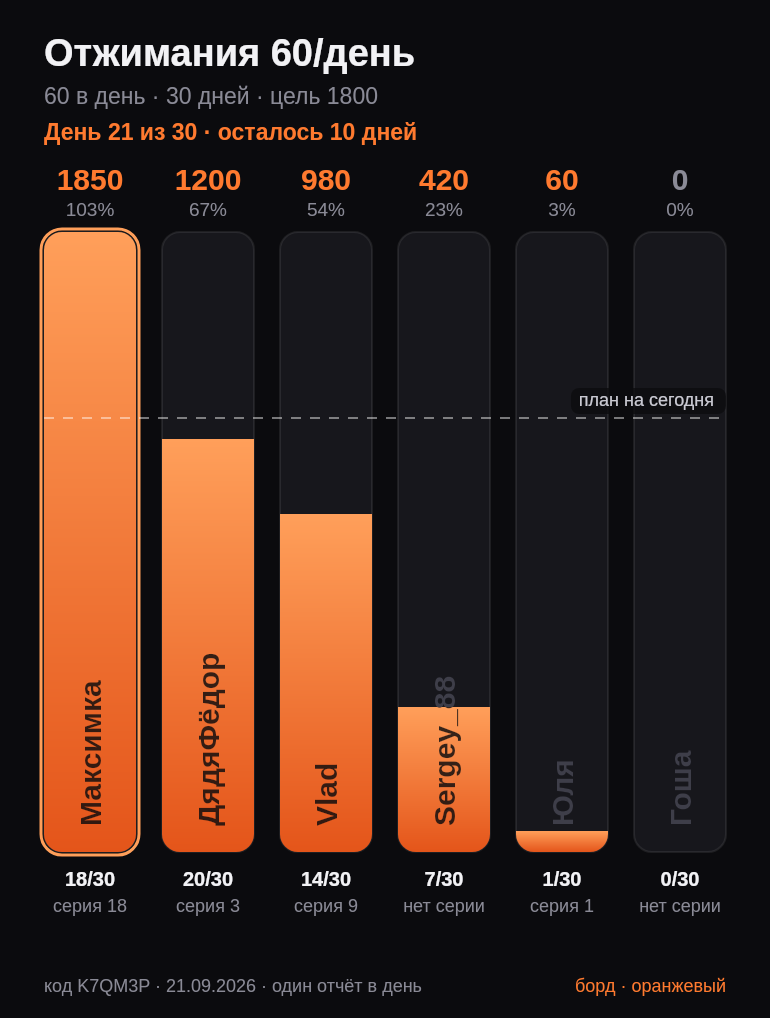
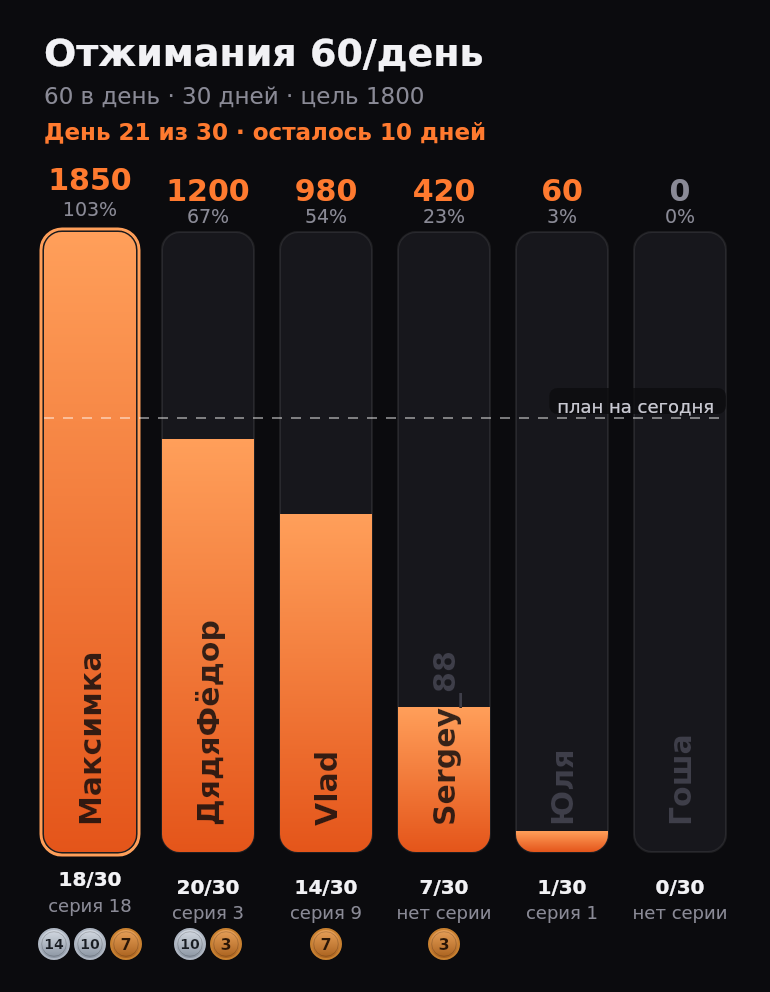
Drop the board footer and redraw two badges
- the line with the code, the date and the colour is gone from under the
  chart, and the freed space is trimmed from the frame
- the badge row is now reserved for the whole board, so the finishing
  verdicts line up across columns whoever has medals
- finisher is a medal with a star instead of a check, loser is a thumbs
  down instead of a slash; the emoji in messages follow (🏅 and 👎)

diff --git a/pushup-bot/src/render/badges.ts b/pushup-bot/src/render/badges.ts
@@ -74,26 +74,39 @@ function trophy(context: SKRSContext2D, cx: number, cy: number, size: number, co
   context.stroke();
 }
 
-function checkMark(context: SKRSContext2D, cx: number, cy: number, size: number, color: string): void {
-  context.strokeStyle = color;
-  context.lineWidth = Math.max(2, size * 0.13);
-  context.lineCap = 'round';
-  context.lineJoin = 'round';
+function star(context: SKRSContext2D, cx: number, cy: number, radius: number, color: string): void {
+  const inner = radius * 0.46;
+  context.fillStyle = color;
   context.beginPath();
-  context.moveTo(cx - size * 0.3, cy + size * 0.02);
-  context.lineTo(cx - size * 0.06, cy + size * 0.26);
-  context.lineTo(cx + size * 0.32, cy - size * 0.26);
-  context.stroke();
+  for (let point = 0; point < 10; point += 1) {
+    const angle = -Math.PI / 2 + (point * Math.PI) / 5;
+    const distance = point % 2 === 0 ? radius : inner;
+    const x = cx + Math.cos(angle) * distance;
+    const y = cy + Math.sin(angle) * distance;
+    if (point === 0) context.moveTo(x, y);
+    else context.lineTo(x, y);
+  }
+  context.closePath();
+  context.fill();
 }
 
-function slash(context: SKRSContext2D, cx: number, cy: number, size: number, color: string): void {
-  context.strokeStyle = color;
-  context.lineWidth = Math.max(2, size * 0.13);
-  context.lineCap = 'round';
-  context.beginPath();
-  context.moveTo(cx - size * 0.28, cy + size * 0.28);
-  context.lineTo(cx + size * 0.28, cy - size * 0.28);
-  context.stroke();
+/** Палец вниз: кулак, отогнутый большой палец и обшлаг рукава. */
+function thumbDown(context: SKRSContext2D, cx: number, cy: number, size: number, color: string): void {
+  context.save();
+  context.translate(cx, cy);
+  context.scale(size, size); // ось Y вниз: большой палец смотрит вниз
+  context.fillStyle = color;
+
+  const box = (x0: number, y0: number, x1: number, y1: number, r: number): void => {
+    context.beginPath();
+    context.roundRect(x0, y0, x1 - x0, y1 - y0, r);
+    context.fill();
+  };
+
+  box(-0.22, -0.44, 0.44, 0.16, 0.17); // кулак
+  box(-0.08, 0.1, 0.22, 0.56, 0.14); // большой палец
+  box(-0.52, -0.36, -0.32, 0.06, 0.07); // обшлаг рукава
+  context.restore();
 }
 
 /** Медаль: круг с цифрой серии или со знаком чемпиона / финишера / лузера. */
@@ -140,8 +153,8 @@ export function drawBadge(
     return;
   }
   if (code === 'champion') trophy(context, cx, cy, radius * 1.5, ink);
-  else if (code === 'finisher') checkMark(context, cx, cy, radius, ink);
-  else slash(context, cx, cy, radius, ink);
+  else if (code === 'finisher') star(context, cx, cy, radius * 0.62, ink);
+  else thumbDown(context, cx, cy, radius * 1.15, ink);
 }
 
 export interface BadgeCardRow {
@@ -215,6 +228,6 @@ export function renderBadgeCard(view: BadgeCardView): Buffer {
   context.textAlign = 'left';
   context.fillStyle = MUTED;
   context.font = fontOf(18);
-  context.fillText('Серия считается внутри челленджа: пропуск обнуляет её, новый челлендж начинает заново', padding, height - 34);
+  context.fillText('Серия считается внутри челленджа и обнуляется после пропуска', padding, height - 34);
   return canvas.toBuffer('image/png');
 }

diff --git a/pushup-bot/src/render/leaderboard.ts b/pushup-bot/src/render/leaderboard.ts
@@ -117,8 +117,9 @@ export function renderBoard(view: BoardView): Buffer {
   const width = Math.max(760, plotWidth + PADDING * 2);
   const headerHeight = 232;
   const hasBadges = view.rows.some((row) => (row.badges?.length ?? 0) > 0);
-  const footerHeight = (view.status === 'finished' ? 146 : 122) + (hasBadges ? 52 : 0);
-  const height = headerHeight + TRACK_HEIGHT + footerHeight + PADDING;
+  // Под столбиками: дни, серия, медали и — на финише — итог участника.
+  const footerHeight = (view.status === 'finished' ? 134 : 88) + (hasBadges ? 52 : 0);
+  const height = headerHeight + TRACK_HEIGHT + footerHeight;
 
   ensureFonts();
   const canvas = createCanvas(width, height);
@@ -216,8 +217,9 @@ export function renderBoard(view: BoardView): Buffer {
       labelY,
     );
 
-    const medals = row.badges ?? [];
-    if (medals.length > 0) {
+    // Ряд медалей резервируем на всём борде, чтобы итоги стояли на одной линии.
+    if (hasBadges) {
+      const medals = row.badges ?? [];
       const radius = 15;
       const step = radius * 2 + 6;
       const start = centerX - ((medals.length - 1) * step) / 2;
@@ -269,19 +271,6 @@ export function renderBoard(view: BoardView): Buffer {
     context.fillStyle = '#C9C9D2';
     context.fillText(label, labelX, paceY - 12);
   }
-
-  // Подвал.
-  context.textAlign = 'left';
-  context.fillStyle = MUTED;
-  context.font = font(18);
-  context.fillText(
-    `код ${view.code} · ${view.todayLabel} · один отчёт в день`,
-    PADDING,
-    height - 26,
-  );
-  context.textAlign = 'right';
-  context.fillStyle = color.base;
-  context.fillText(`борд · ${color.name}`, width - PADDING, height - 26);
 
   return canvas.toBuffer('image/png');
 }

diff --git a/pushup-bot/src/domain/badges.ts b/pushup-bot/src/domain/badges.ts
@@ -61,10 +61,10 @@ export const BADGES: BadgeMeta[] = [
     description: 'Победа в челлендже среди перевыполнивших план',
   },
   {
-    code: 'finisher', icon: '🎖', short: 'Финишер', title: 'Финишер',
+    code: 'finisher', icon: '🏅', short: 'Финишер', title: 'Финишер',
     description: 'Челлендж выполнен полностью',
   },
-  { code: 'loser', icon: '💀', short: 'Лузер', title: 'Лузер', description: 'Челлендж провален' },
+  { code: 'loser', icon: '👎', short: 'Лузер', title: 'Лузер', description: 'Челлендж провален' },
 ];
 
 const BY_CODE = new Map(BADGES.map((badge) => [badge.code, badge]));

diff --git a/pushup-bot/src/render/view.ts b/pushup-bot/src/render/view.ts
@@ -86,7 +86,7 @@ export function boardCaption(challenge: Challenge, today: string): string {
   if (challenge.status === 'finished' && challenge.results) {
     lines.push('');
     for (const row of challenge.results.rows) {
-      const mark = row.champion ? '🏆' : row.completed ? '🎖' : '💀';
+      const mark = row.champion ? '🏆' : row.completed ? '🏅' : '👎';
       const tail = row.completed
         ? `выполнил${row.overachieved ? ` (+${row.total - row.target})` : ''}`
         : `не хватило ${row.deficit}`;

diff --git a/pushup-bot/src/telegram/bot.ts b/pushup-bot/src/telegram/bot.ts
@@ -139,8 +139,8 @@ export function wire(bot: Bot, service: ChallengeService, options: WireOptions =
       ? row.champion
         ? `🏆 чемпион, ${row.total}`
         : row.completed
-          ? `🎖 выполнено, ${row.total}`
-          : `💀 не хватило ${row.deficit}`
+          ? `🏅 выполнено, ${row.total}`
+          : `👎 не хватило ${row.deficit}`
       : '—';
     return `${head}\n${challenge.status === 'finished' ? 'Завершён' : 'Отменён'} · ${verdict}`;
   }
